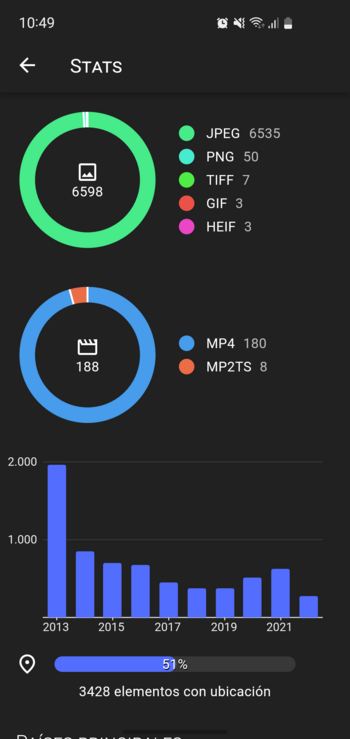
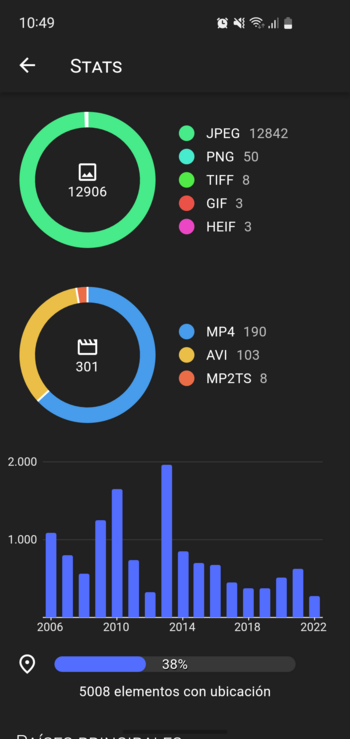
screenshot update

diff --git a/test_driver/driver_screenshots_test.dart b/test_driver/driver_screenshots_test.dart
@@ -56,6 +56,7 @@ void main() {
       info();
       stats();
       countries();
+      map();
     });
   }, timeout: const Timeout(Duration(seconds: 30)));
 }
@@ -64,10 +65,15 @@ Future<void> _search(String query, String chipKey) async {
   await driver.tapKeyAndWait('menu-searchCollection');
   await driver.tap(find.byType('TextField'));
   await driver.enterText(query);
-  final chip = find.byValueKey(chipKey);
-  await driver.waitFor(chip);
-  await driver.tap(chip);
-  await driver.waitUntilNoTransientCallbacks();
+  await driver.tapKeyAndWait(chipKey);
+}
+
+Future<void> _selectMapStyle(String style) async {
+  await driver.tapKeyAndWait('map-menu-layers');
+  await driver.tapKeyAndWait('EntryMapStyle.$style');
+
+  // tiles may take time to load
+  await Future.delayed(const Duration(seconds: 5));
 }
 
 Future<void> _takeScreenshot(FlutterDriver driver, String name) async {
@@ -152,8 +158,7 @@ void info() {
     final verticalPageView = find.byValueKey('vertical-pageview');
 
     await driver.scrollY(verticalPageView, -600);
-    // tiles may take time to load
-    await Future.delayed(const Duration(seconds: 5));
+    await _selectMapStyle('stamenWatercolor');
 
     await _takeScreenshot(driver, '3');
 
@@ -184,7 +189,7 @@ void stats() {
 
     final maxYear = DateTime.now().year + 1;
     final maxQuery = 'year<$maxYear';
-    const minQuery = 'year>2012';
+    const minQuery = 'year>2005';
     await _search(maxQuery, 'query-$maxQuery');
     await _search(minQuery, 'query-$minQuery');
 
@@ -204,5 +209,25 @@ void countries() {
     await driver.tapKeyAndWait('drawer-page-/countries');
 
     await _takeScreenshot(driver, '6');
+  });
+}
+
+void map() {
+  test('7. Map', () async {
+    await driver.tapKeyAndWait('appbar-leading-button');
+    await driver.tapKeyAndWait('drawer-type-null');
+
+    await _search('animals', 'tag-animals');
+    await _search('Singapore', 'location-LocationLevel.country-Singapore');
+
+    await driver.tapKeyAndWait('appbar-menu-button');
+    await driver.tapKeyAndWait('menu-map');
+
+    await _selectMapStyle('googleTerrain');
+
+    await _takeScreenshot(driver, '7');
+
+    await pressDeviceBackButton();
+    await driver.waitUntilNoTransientCallbacks();
   });
 }

diff --git a/lib/widgets/common/map/buttons/button.dart b/lib/widgets/common/map/buttons/button.dart
@@ -7,12 +7,14 @@ import 'package:flutter/material.dart';
 import 'package:provider/provider.dart';
 
 class MapOverlayButton extends StatelessWidget {
+  final Key? buttonKey;
   final Widget icon;
   final String tooltip;
   final VoidCallback? onPressed;
 
   const MapOverlayButton({
     super.key,
+    this.buttonKey,
     required this.icon,
     required this.tooltip,
     required this.onPressed,
@@ -40,6 +42,7 @@ class MapOverlayButton extends StatelessWidget {
             child: Selector<MapThemeData, VisualDensity?>(
               selector: (context, v) => v.visualDensity,
               builder: (context, visualDensity, child) => IconButton(
+                key: buttonKey,
                 iconSize: 20,
                 visualDensity: visualDensity,
                 icon: icon,

diff --git a/lib/widgets/common/expandable_filter_row.dart b/lib/widgets/common/expandable_filter_row.dart
@@ -59,7 +59,7 @@ class ExpandableFilterRow extends StatelessWidget {
 
     final filterList = filters.toList();
     final wrap = Container(
-      key: ValueKey('wrap$title'),
+      key: Key('wrap$title'),
       padding: const EdgeInsets.symmetric(horizontal: horizontalPadding),
       // specify transparent as a workaround to prevent
       // chip border clipping when the floating app bar is fading
@@ -71,7 +71,7 @@ class ExpandableFilterRow extends StatelessWidget {
       ),
     );
     final list = Container(
-      key: ValueKey('list$title'),
+      key: Key('list$title'),
       // specify transparent as a workaround to prevent
       // chip border clipping when the floating app bar is fading
       color: Colors.transparent,

diff --git a/test_driver/driver_screenshots.dart b/test_driver/driver_screenshots.dart
@@ -3,7 +3,6 @@ import 'package:aves/model/settings/defaults.dart';
 import 'package:aves/model/settings/enums/enums.dart';
 import 'package:aves/model/settings/settings.dart';
 import 'package:aves/model/source/enums.dart';
-import 'package:aves_map/src/style.dart';
 import 'package:aves/widgets/filter_grids/countries_page.dart';
 import 'package:flutter_driver/driver_extension.dart';
 import 'package:flutter_test/flutter_test.dart';
@@ -46,7 +45,6 @@ Future<void> configureAndLaunch() async {
     ..showOverlayThumbnailPreview = false
     ..viewerUseCutout = true
     // info
-    ..infoMapStyle = EntryMapStyle.stamenWatercolor
     ..infoMapZoom = 13
     ..coordinateFormat = CoordinateFormat.dms
     ..unitSystem = UnitSystem.metric;

diff --git a/lib/widgets/viewer/visual/entry_page_view.dart b/lib/widgets/viewer/visual/entry_page_view.dart
@@ -376,7 +376,7 @@ class _EntryPageViewState extends State<EntryPageView> {
 
     return Magnifier(
       // key includes modified date to refresh when the image is modified by metadata (e.g. rotated)
-      key: ValueKey('${entry.uri}_${entry.pageId}_${entry.dateModifiedSecs}'),
+      key: Key('${entry.uri}_${entry.pageId}_${entry.dateModifiedSecs}'),
       controller: controller ?? _magnifierController,
       childSize: displaySize ?? entry.displaySize,
       allowOriginalScaleBeyondRange: !isWallpaperMode,

diff --git a/lib/widgets/common/map/buttons/panel.dart b/lib/widgets/common/map/buttons/panel.dart
@@ -123,6 +123,8 @@ class MapButtonPanel extends StatelessWidget {
                     Padding(
                       padding: EdgeInsets.only(top: padding),
                       child: MapOverlayButton(
+                        // key is expected by test driver
+                        buttonKey: const Key('map-menu-layers'),
                         icon: const Icon(AIcons.layers),
                         onPressed: () => showSelectionDialog<EntryMapStyle>(
                           context: context,

diff --git a/test_driver/utils/driver_extension.dart b/test_driver/utils/driver_extension.dart
@@ -1,3 +1,4 @@
+// ignore_for_file: avoid_print
 import 'package:aves/widgets/debug/app_debug_action.dart';
 import 'package:flutter_driver/flutter_driver.dart';
 
@@ -19,7 +20,10 @@ extension ExtraFlutterDriver on FlutterDriver {
   }
 
   Future<void> tapKeyAndWait(String key) async {
-    await tap(find.byValueKey(key));
+    print('  find key=$key');
+    final finder = find.byValueKey(key);
+    await waitFor(finder);
+    await tap(finder);
     await waitUntilNoTransientCallbacks();
   }
 

diff --git a/test_driver/driver_shaders_test.dart b/test_driver/driver_shaders_test.dart
@@ -165,10 +165,7 @@ void searchAlbum() {
     await driver.tap(find.byType('TextField'));
     await driver.enterText(albumDisplayName);
 
-    final albumChip = find.byValueKey('album-$albumPath');
-    await driver.waitFor(albumChip);
-    await driver.tap(albumChip);
-    await driver.waitUntilNoTransientCallbacks();
+    await driver.tapKeyAndWait('album-$albumPath');
   });
 }
 
